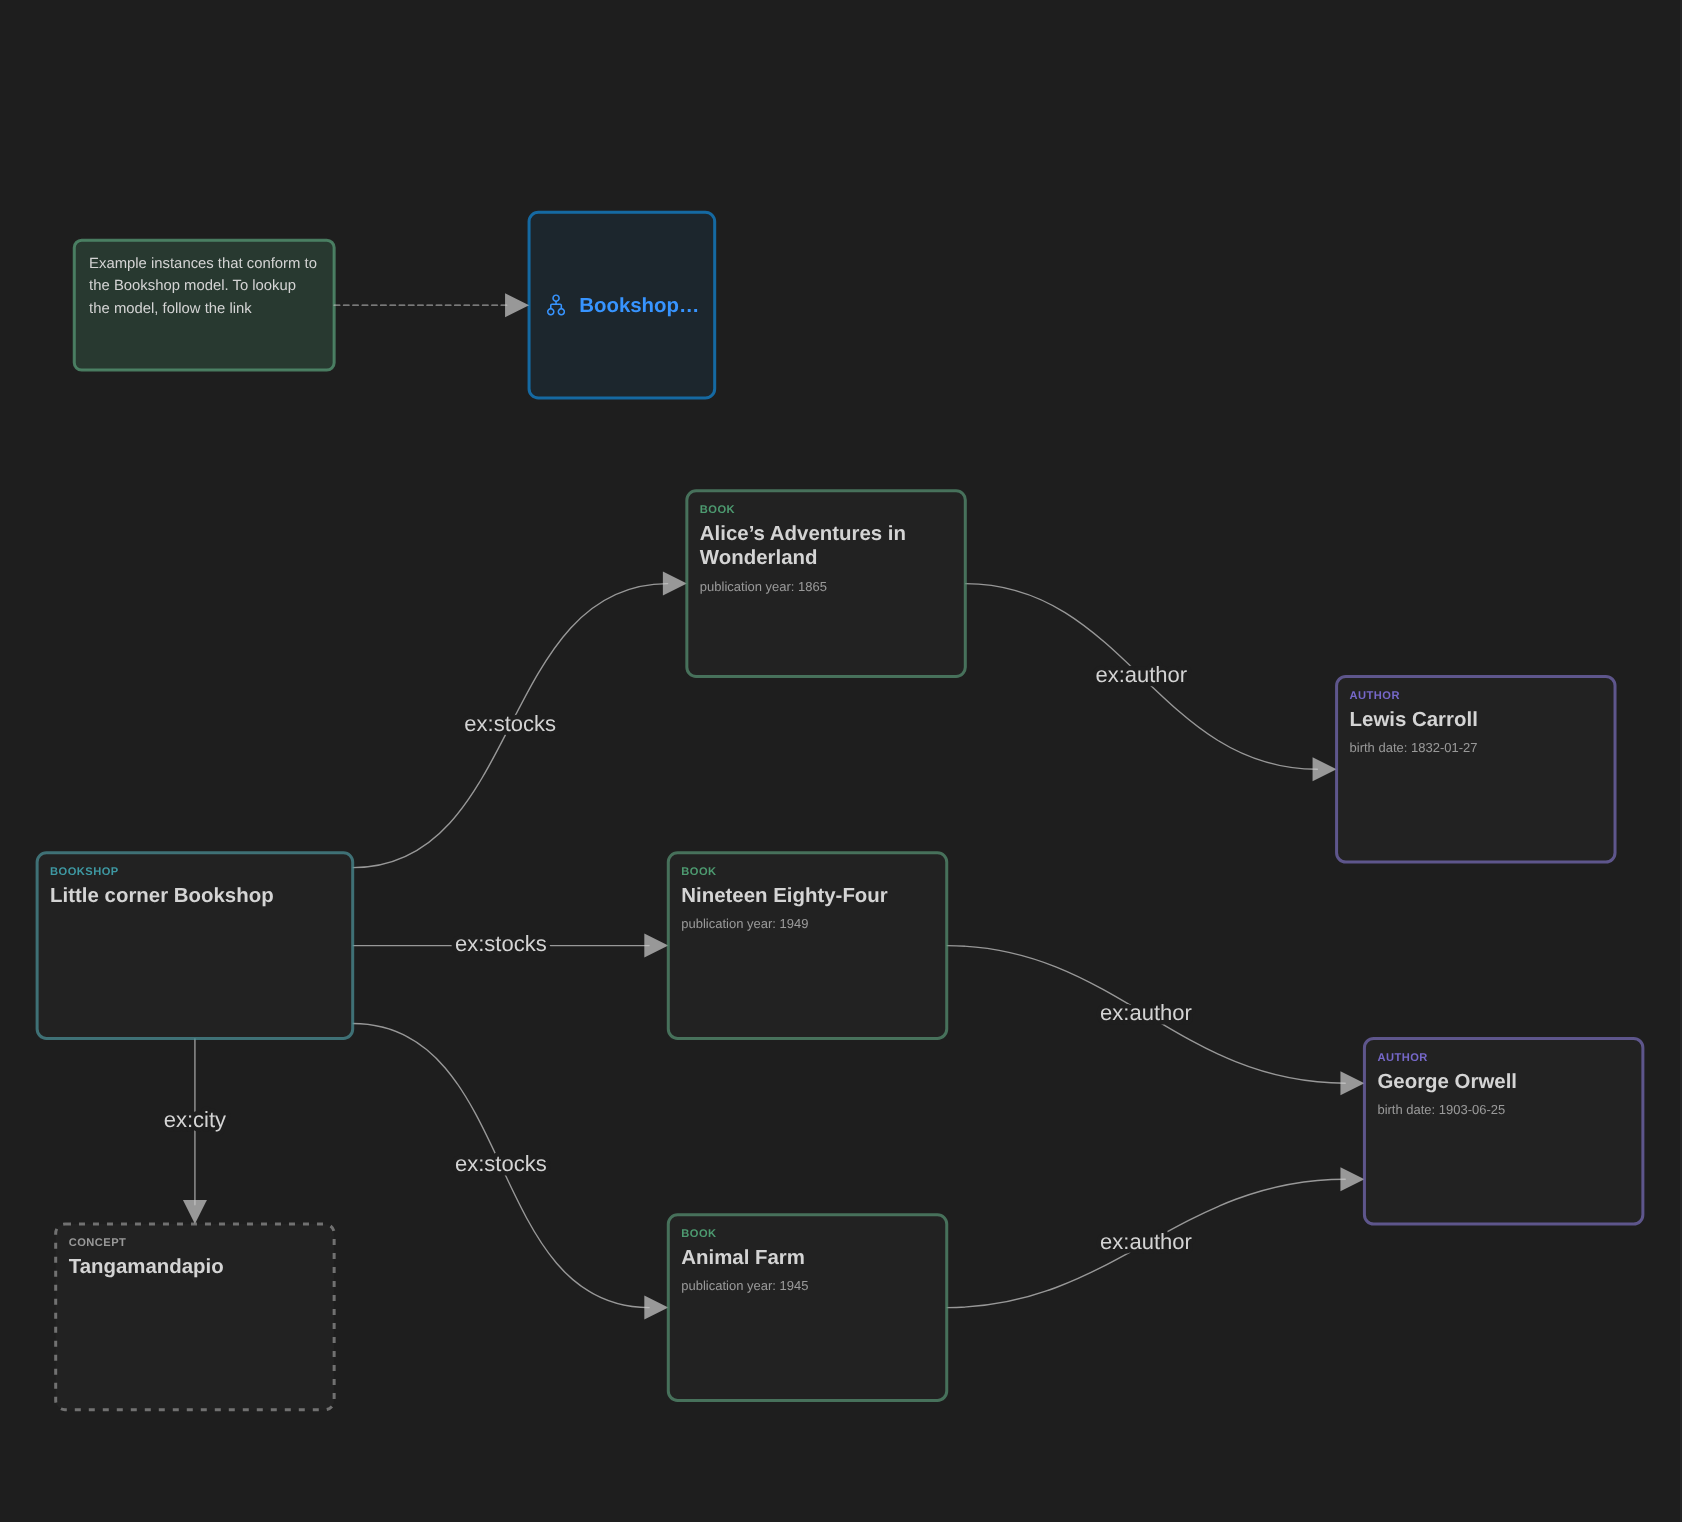
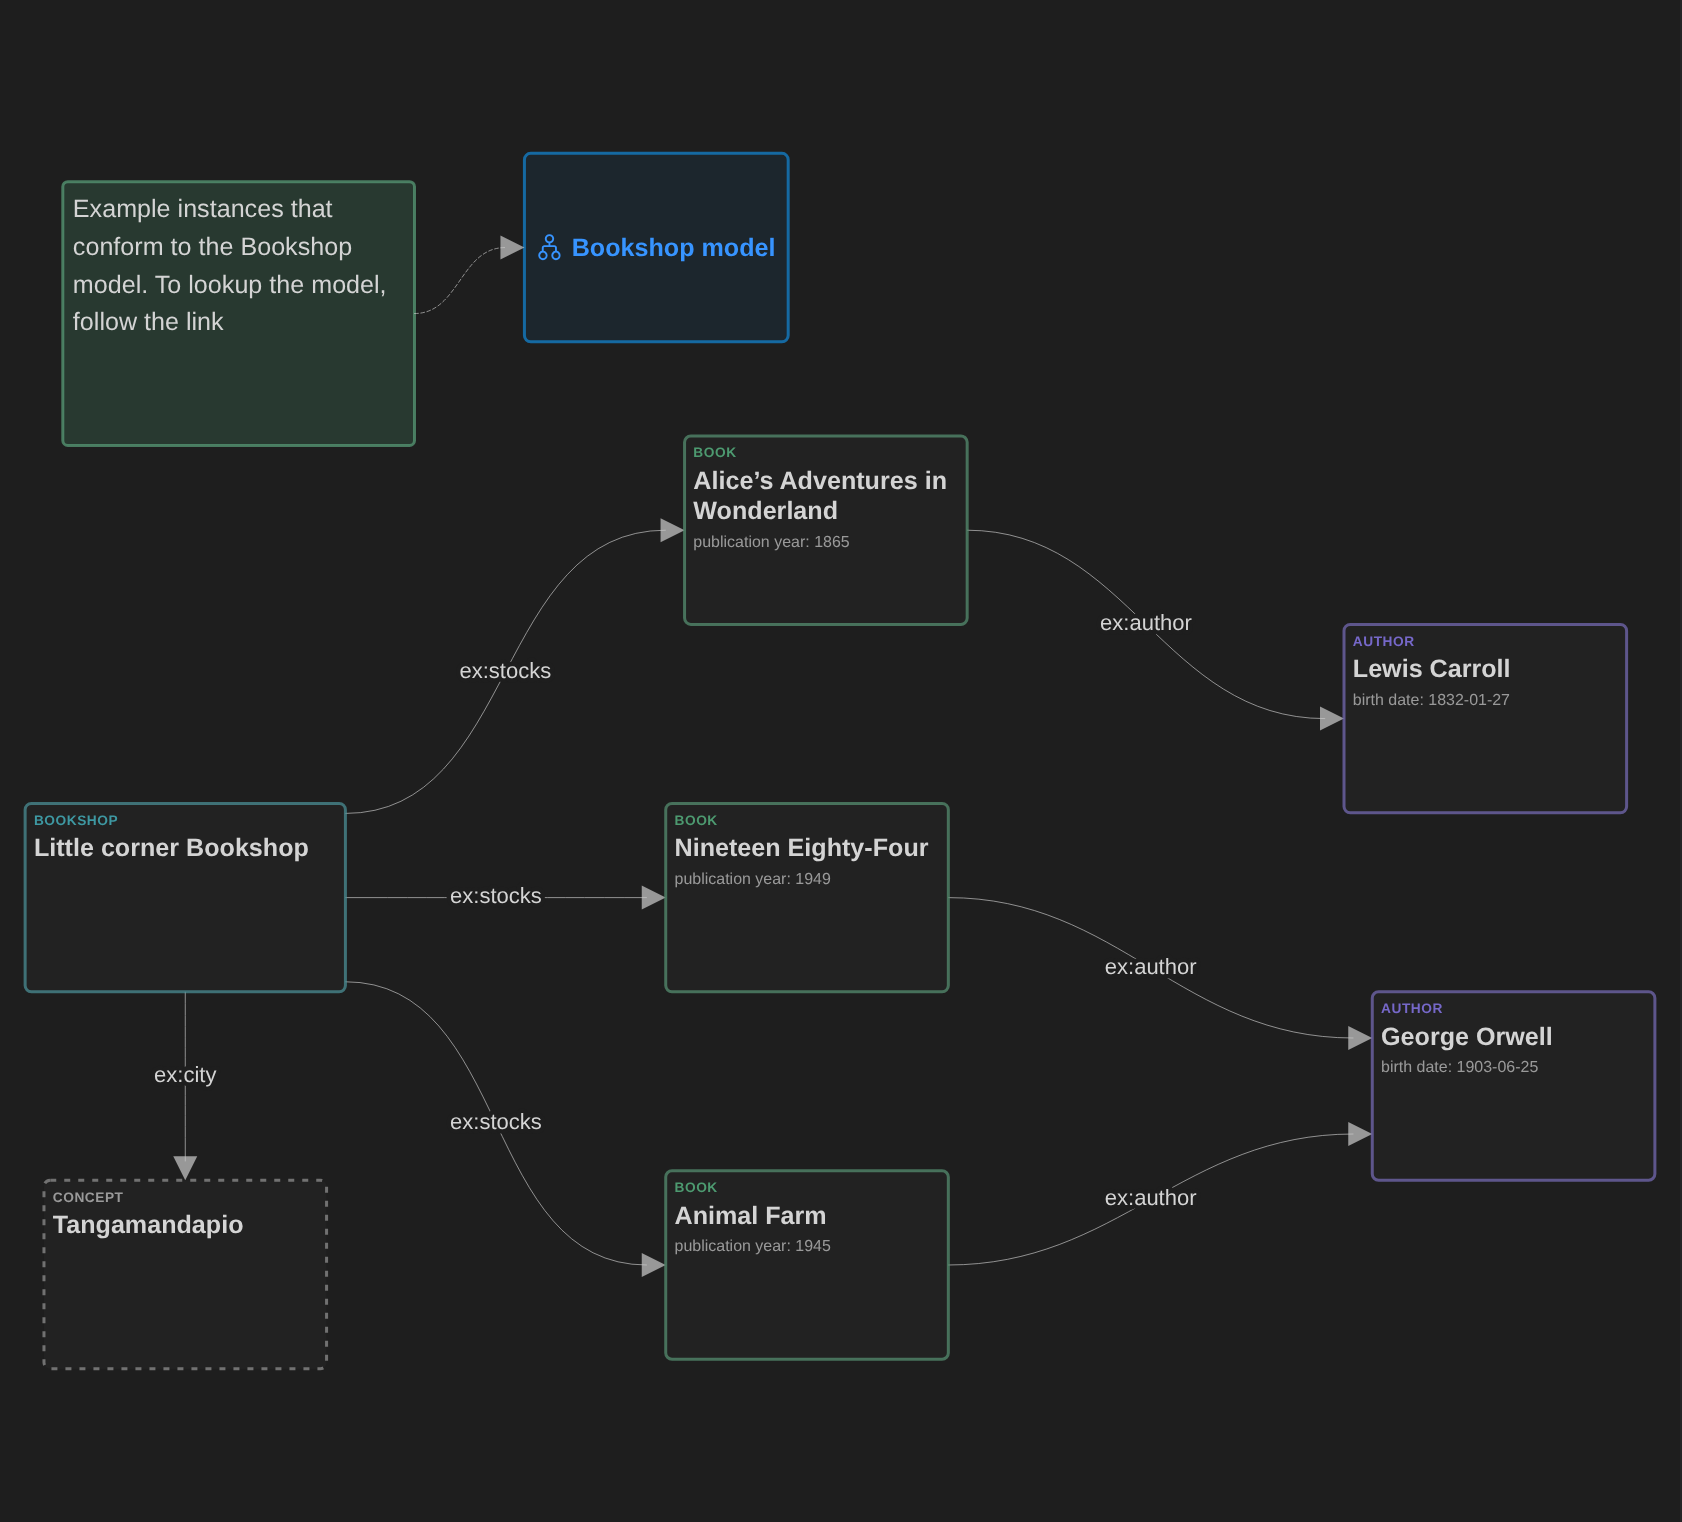
defaults: card text 40, group text 47, note text 40, layout spacing 200 (the card geometry stays drawn for 22 px: card scale = size / 22, CSS and server alike); dpm removed from the default prefixes (a class of an undeclared namespace is named by its local name); bookshop example geometry scaled for

diff --git a/modeler/src/browser/diagram/font-preferences.ts b/modeler/src/browser/diagram/font-preferences.ts
@@ -10,7 +10,9 @@ export const CARD_FONT_SIZE = 'catenary.cardFontSize';
 export const GROUP_FONT_SIZE = 'catenary.groupFontSize';
 export const NOTE_FONT_SIZE = 'catenary.noteFontSize';
 /** Defaults: the sizes in modeler.css at scale 1. */
-export const FONT_DEFAULTS: Record<string, number> = { [CARD_FONT_SIZE]: 22, [GROUP_FONT_SIZE]: 20, [NOTE_FONT_SIZE]: 16 };
+export const FONT_DEFAULTS: Record<string, number> = { [CARD_FONT_SIZE]: 40, [GROUP_FONT_SIZE]: 47, [NOTE_FONT_SIZE]: 40 };
+/** The card text size that the card geometry (heights, widths) is drawn for. The card scale is the size over this base. */
+export const CARD_FONT_BASE = 22;
 export const FONT_MIN = 8;
 export const FONT_MAX = 72;
 
@@ -51,9 +53,9 @@ export class FontPreferences implements FrontendApplicationContribution {
         return Number.isFinite(n) ? Math.min(FONT_MAX, Math.max(FONT_MIN, n)) : FONT_DEFAULTS[name];
     }
 
-    /** Card text scale: the "Card text" size / its default. The GLSP server gets it (`catenarySetCardScale`) for the card heights. */
+    /** Card text scale: the "Card text" size / CARD_FONT_BASE. The GLSP server gets it (`catenarySetCardScale`) for the card heights. */
     get cardScale(): number {
-        return this.get(CARD_FONT_SIZE) / FONT_DEFAULTS[CARD_FONT_SIZE];
+        return this.get(CARD_FONT_SIZE) / CARD_FONT_BASE;
     }
 
     /** User scope. `undefined` removes the setting: the default applies. */
@@ -68,7 +70,7 @@ export class FontPreferences implements FrontendApplicationContribution {
 
     protected apply(size: (name: string) => number = n => this.get(n)): void {
         const root = document.documentElement.style;
-        root.setProperty('--catenary-card-scale', String(size(CARD_FONT_SIZE) / FONT_DEFAULTS[CARD_FONT_SIZE]));
+        root.setProperty('--catenary-card-scale', String(size(CARD_FONT_SIZE) / CARD_FONT_BASE));
         root.setProperty('--catenary-group-font-size', `${size(GROUP_FONT_SIZE)}px`);
         root.setProperty('--catenary-note-font-size', `${size(NOTE_FONT_SIZE)}px`);
     }

diff --git a/packages/rdf/test/metamodel.test.ts b/packages/rdf/test/metamodel.test.ts
@@ -10,7 +10,8 @@ describe('shapes to palette', () => {
     it('makes one palette class per sh:targetClass, named by the class IRI (not sh:name of the shape), ordered by sh:order', async () => {
         const m = await meta();
         expect(m.classes.map(c => c.name)).toEqual(
-            ['dprod:DataProduct', 'dcat:Dataset', 'dcat:DataService', 'dpm:NamedGraph', 'prov:Agent', 'dpm:Domain', 'dpm:Task']);
+            // dpm: is not a default prefix: a class of an undeclared namespace is named by its local name.
+            ['dprod:DataProduct', 'dcat:Dataset', 'dcat:DataService', 'NamedGraph', 'prov:Agent', 'Domain', 'Task']);
         expect(m.classes.map(instanceNoun)).toEqual(
             ['Data Product', 'Dataset', 'Data Service', 'Named Graph', 'Agent', 'Domain', 'Task']);
         expect(m.classes[0].iri).toBe(DPROD + 'DataProduct');

diff --git a/modeler/src/common/protocol.ts b/modeler/src/common/protocol.ts
@@ -28,7 +28,7 @@ export const LAYOUT_ALGORITHMS = [
 ] as const;
 export type LayoutAlgorithm = typeof LAYOUT_ALGORITHMS[number]['id'];
 /** Space between boxes (px) of Apply Layout: user preference `catenary.layoutSpacing`, sent with each layout request. */
-export const LAYOUT_SPACING = { default: 120, min: 20, max: 400 } as const;
+export const LAYOUT_SPACING = { default: 200, min: 20, max: 400 } as const;
 /** A spacing in range; else the default. */
 export function layoutSpacing(value: unknown): number {
     const n = Number(value);

diff --git a/packages/model/src/shapes-doc.ts b/packages/model/src/shapes-doc.ts
@@ -180,7 +180,6 @@ export const DEFAULT_PREFIXES: Readonly<Record<string, string>> = {
     adms: 'http://www.w3.org/ns/adms#',
     dcat: 'http://www.w3.org/ns/dcat#',
     dct: NS.dct,
-    dpm: 'osg://vocab/data-product-draft#',
     dprod: 'https://ekgf.github.io/dprod/',
     foaf: 'http://xmlns.com/foaf/0.1/',
     locn: 'http://www.w3.org/ns/locn#',

diff --git a/www/tutorial/04-instances.md b/www/tutorial/04-instances.md
@@ -18,6 +18,10 @@ The view opens as an empty canvas with the label **Books**, the base name of the
 
 The last step creates the author and the relation in one edit. The arrow between the two cards is the statement.
 
+::: tip The controls around a card
+Hover a card to show its controls. The arrows on the left and right sides **expand**: they place the neighbors of the card that the view does not show yet, incoming on the left, outgoing on the right. The **+** signs **create**: a new relation, and if you type a name, a new element at its end. The × removes the card from the view and leaves the model as it is.
+:::
+
 ![Two books and one author on the Books view](/images/scratch-instances.png)
 
 Each card shows the values of the instance. The status bar says that the model is valid: both books have a title, as the shape requires.

diff --git a/www/tutorial/02-import.md b/www/tutorial/02-import.md
@@ -32,4 +32,8 @@ The scheme appears as a card with its three concepts.
 
 A locked file is read-only. If you try to change one of its statements, Catenary asks whether to unlock the file. Statements that you add about its subjects go to your own files.
 
+## Or paste a snippet
+
+Import is for files that you keep as they are. For a quick sketch, you can also paste RDF text straight onto a canvas: copy a Turtle snippet, click the canvas and press Ctrl+V. Catenary adds the statements to your files and places the new elements as cards. This is often the fastest way to start a draft from an example that you found somewhere.
+
 Next: [Draw the shapes](./03-shapes).
